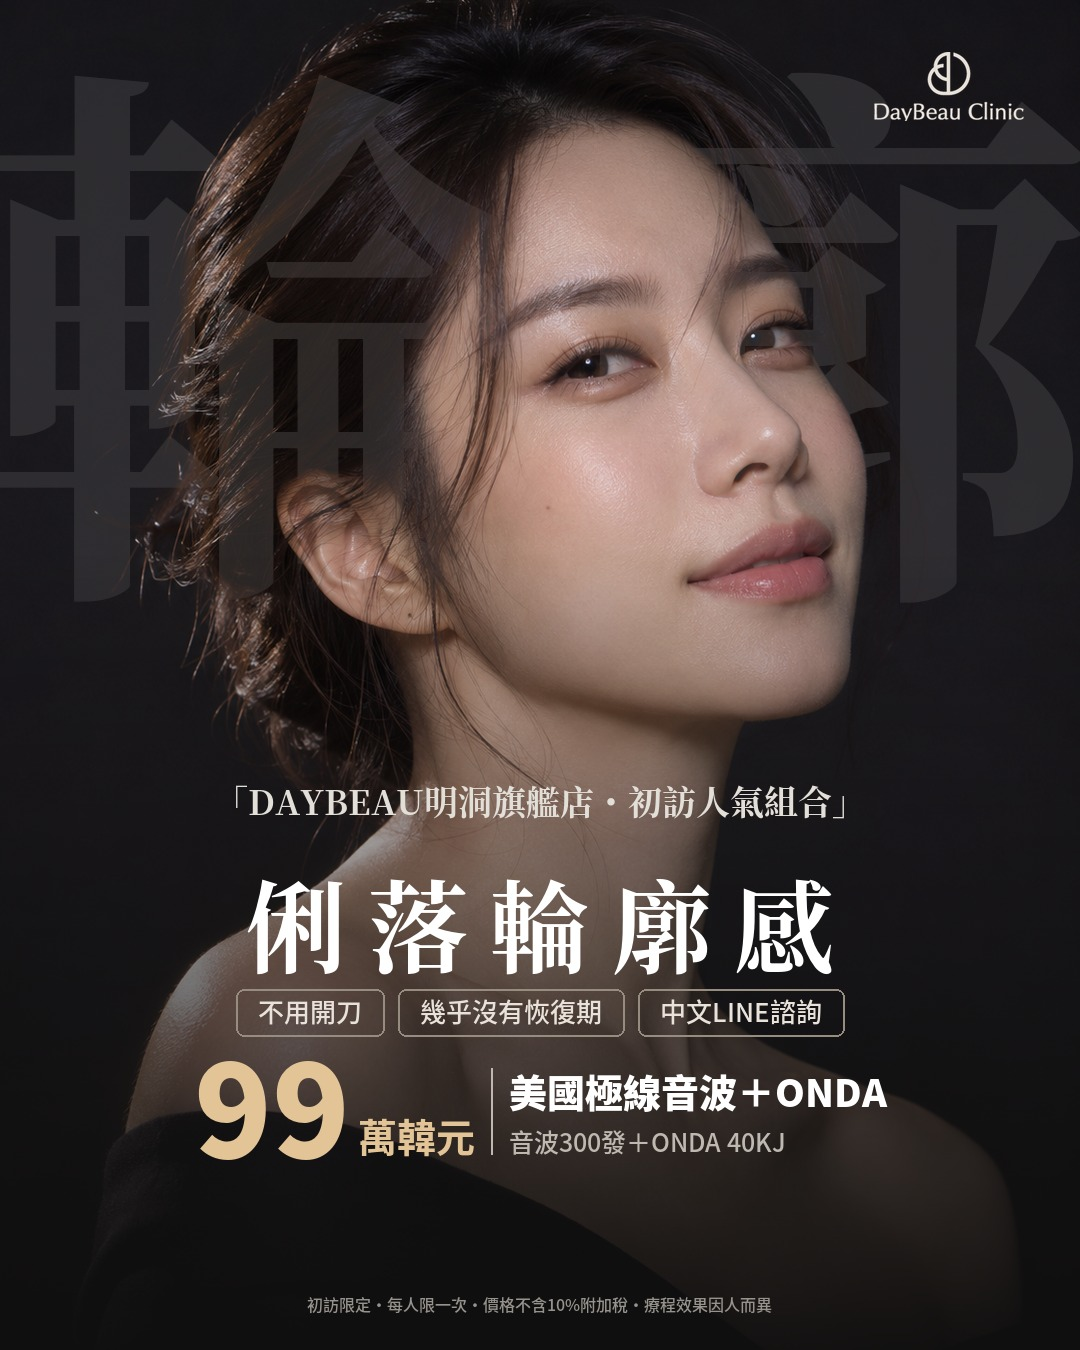
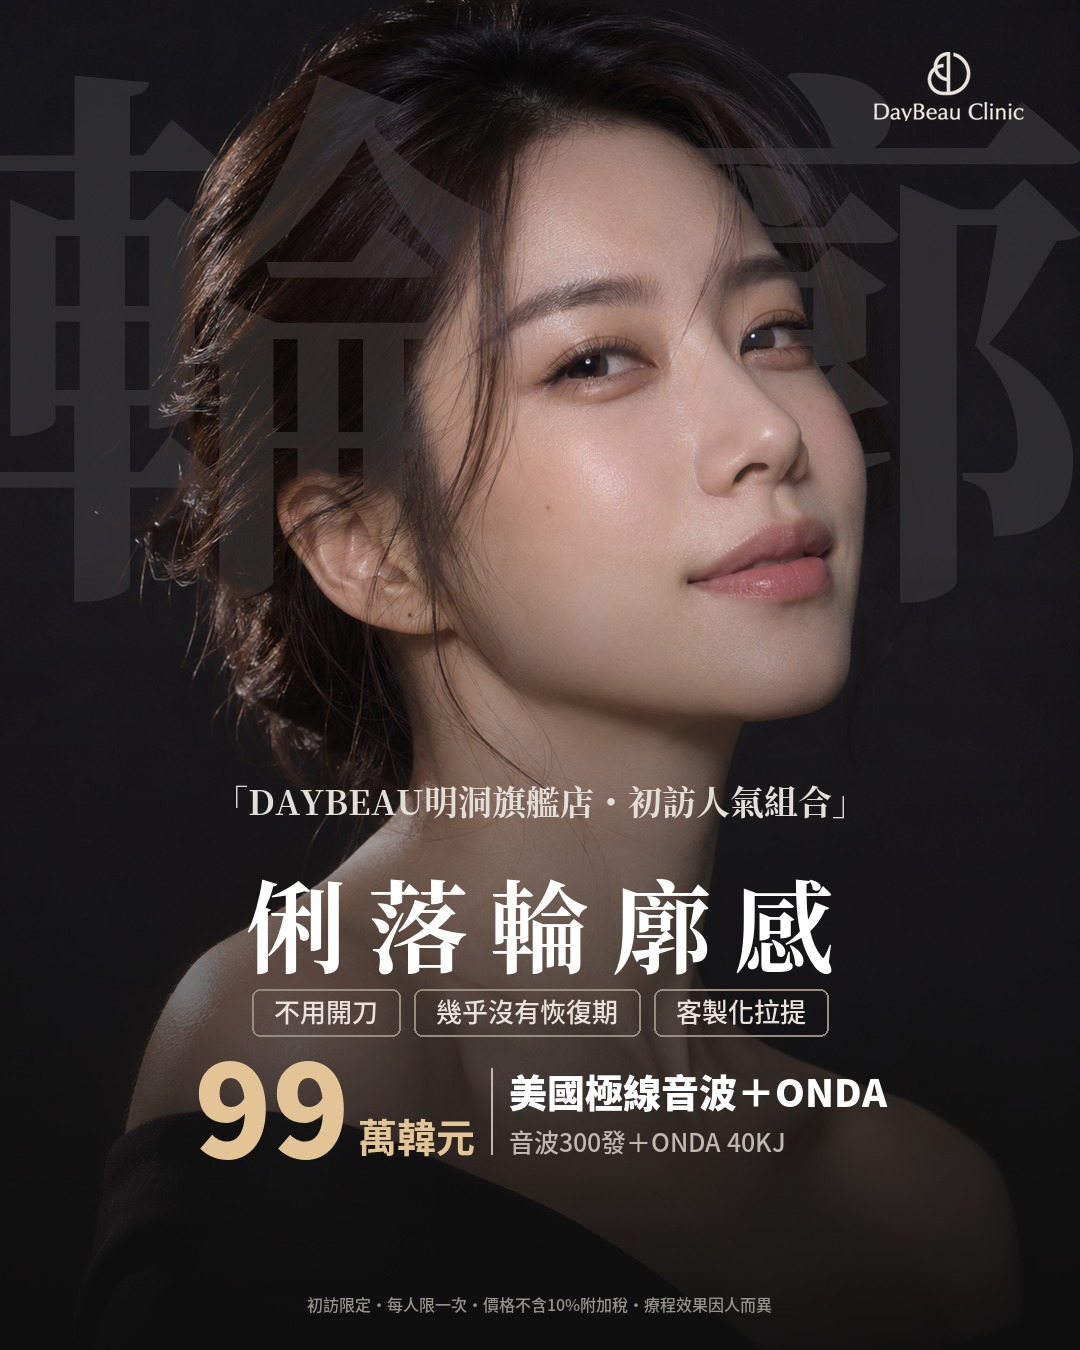
Claude: review-261112 게시

Changed region(s): [[0.2139, 0.7156, 0.7639, 0.7778]]

diff --git a/review-261112/index.html b/review-261112/index.html
@@ -21,7 +21,7 @@ table{border-collapse:collapse;width:100%;margin-top:14px;font-size:14px} td,th{
 <div class="pair"><div class="ours"><img src="clips/포텐자쥬베룩_고민형1_TW_4x5.jpg" alt=""></div><div class="theirs"><img src="ref/대만_28200883912915810_1.jpg" alt=""></div></div>
 <table><tr><th>번체</th><th>한국어</th></tr><tr><td lang='zh-Hant'>每次上妝都很在意的毛孔</td><td>화장할 때마다 신경 쓰이는 모공</td></tr><tr><td lang='zh-Hant'>毛孔粗大、上妝卡粉，</td><td>넓은 모공, 화장 들뜸,</td></tr><tr><td lang='zh-Hant'>你還要遮到什麼時候？</td><td>언제까지 가릴 건가요?</td></tr><tr><td lang='zh-Hant'>19萬韓元 黃金微針＋水光 / N探頭＋JUVELOOK 2CC</td><td>19만 원 포텐자+물광 / N팁+쥬베룩 2cc</td></tr><tr><td lang='zh-Hant'>初訪限定・每人限一次・價格不含10%附加稅・療程效果因人而異</td><td>첫 방문 한정·1인 1회·가격 부가세 10% 별도·효과는 개인차</td></tr></table></section><section><h2>온다울쎄라_화보형1 <span class="b new">새 화보</span></h2><p class="ref">레퍼런스: 法喬醫美 「精緻感微翹鼻」 (대만 현지 병원, 2026-06-08부터 집행 중)</p>
 <div class="pair"><div class="ours"><img src="clips/온다울쎄라_화보형1_TW_4x5.jpg" alt=""></div><div class="theirs"><img src="ref/대만_4453394234914423_1.jpg" alt=""></div></div>
-<table><tr><th>번체</th><th>한국어</th></tr><tr><td lang='zh-Hant'>「DAYBEAU明洞旗艦店・初訪人氣組合」</td><td>「데이뷰 명동 플래그십점·첫 방문 인기 조합」</td></tr><tr><td lang='zh-Hant'>俐落輪廓感</td><td>날렵한 윤곽</td></tr><tr><td lang='zh-Hant'>99萬韓元 美國極線音波＋ONDA / 音波300發＋ONDA 40KJ</td><td>99만 원 미국 울쎄라+온다 / 울쎄라 300샷+온다 40KJ</td></tr><tr><td lang='zh-Hant'>初訪限定・每人限一次・價格不含10%附加稅・療程效果因人而異</td><td>첫 방문 한정·1인 1회·가격 부가세 10% 별도·효과는 개인차</td></tr></table></section><section><h2>포텐자쥬베룩_화보형1 <span class="b new">새 화보</span></h2><p class="ref">레퍼런스: 法喬醫美 「胸形到位」 (대만 현지 병원, 2026-10-05부터 집행 중)</p>
+<table><tr><th>번체</th><th>한국어</th></tr><tr><td lang='zh-Hant'>「DAYBEAU明洞旗艦店・初訪人氣組合」</td><td>「데이뷰 명동 플래그십점·첫 방문 인기 조합」</td></tr><tr><td lang='zh-Hant'>俐落輪廓感</td><td>날렵한 윤곽</td></tr><tr><td lang='zh-Hant'>不用開刀 / 幾乎沒有恢復期 / 客製化拉提</td><td>절개 없음 / 회복 기간 거의 없음 / 맞춤 리프팅</td></tr><tr><td lang='zh-Hant'>99萬韓元 美國極線音波＋ONDA / 音波300發＋ONDA 40KJ</td><td>99만 원 미국 울쎄라+온다 / 울쎄라 300샷+온다 40KJ</td></tr><tr><td lang='zh-Hant'>初訪限定・每人限一次・價格不含10%附加稅・療程效果因人而異</td><td>첫 방문 한정·1인 1회·가격 부가세 10% 별도·효과는 개인차</td></tr></table></section><section><h2>포텐자쥬베룩_화보형1 <span class="b new">새 화보</span></h2><p class="ref">레퍼런스: 法喬醫美 「胸形到位」 (대만 현지 병원, 2026-10-05부터 집행 중)</p>
 <div class="pair"><div class="ours"><img src="clips/포텐자쥬베룩_화보형1_TW_4x5.jpg" alt=""></div><div class="theirs"><img src="ref/대만_2097931534149470_1.jpg" alt=""></div></div>
 <table><tr><th>번체</th><th>한국어</th></tr><tr><td lang='zh-Hant'>上妝卡粉？先顧好毛孔</td><td>화장이 들뜬다면? 모공부터 챙기세요</td></tr><tr><td lang='zh-Hant'>黃金微針＋水光，一次搞定！</td><td>포텐자+물광, 한 번에 해결!</td></tr><tr><td lang='zh-Hant'>探頭費已包含 / JUVELOOK 水光 2CC / 中文 LINE諮詢</td><td>팁 비용 포함 / 쥬베룩 물광 2cc / 중국어 라인 상담</td></tr><tr><td lang='zh-Hant'>N探頭＋JUVELOOK 2CC 19萬韓元</td><td>N팁+쥬베룩 2cc 19만 원</td></tr><tr><td lang='zh-Hant'>LINE 免費諮詢 →</td><td>LINE 무료 상담 →</td></tr><tr><td lang='zh-Hant'>DAYBEAU明洞旗艦店・初訪限定・…</td><td>데이뷰 명동 플래그십점·첫 방문 한정·…</td></tr></table></section><section><h2>온다_분할형1 <span class="b new">새 화보</span></h2><p class="ref">레퍼런스: 톡스앤필 명동 「SCULPTRA 1瓶 65萬韓元」 (2026-08-20부터 집행 중)</p>
 <div class="pair"><div class="ours"><img src="clips/온다_분할형1_TW_4x5.jpg" alt=""></div><div class="theirs"><img src="ref/대만_2325900291484842_1.jpg" alt=""></div></div>
